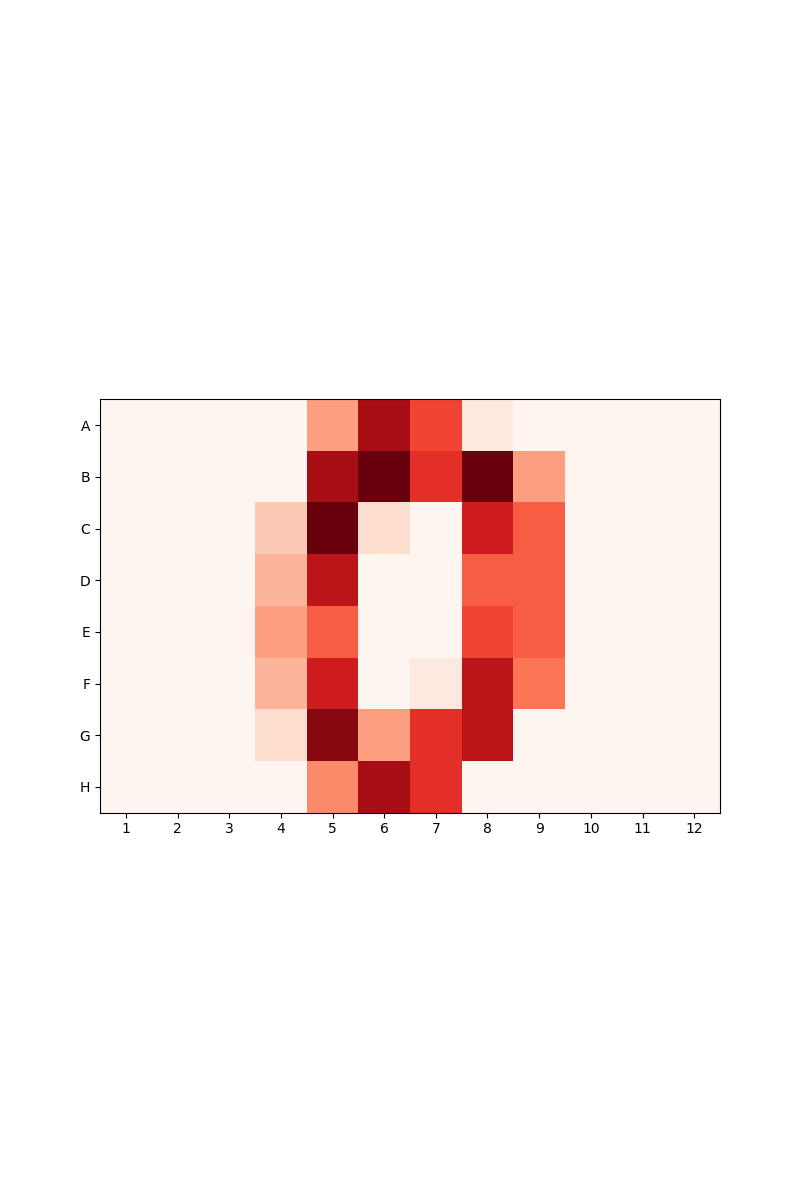
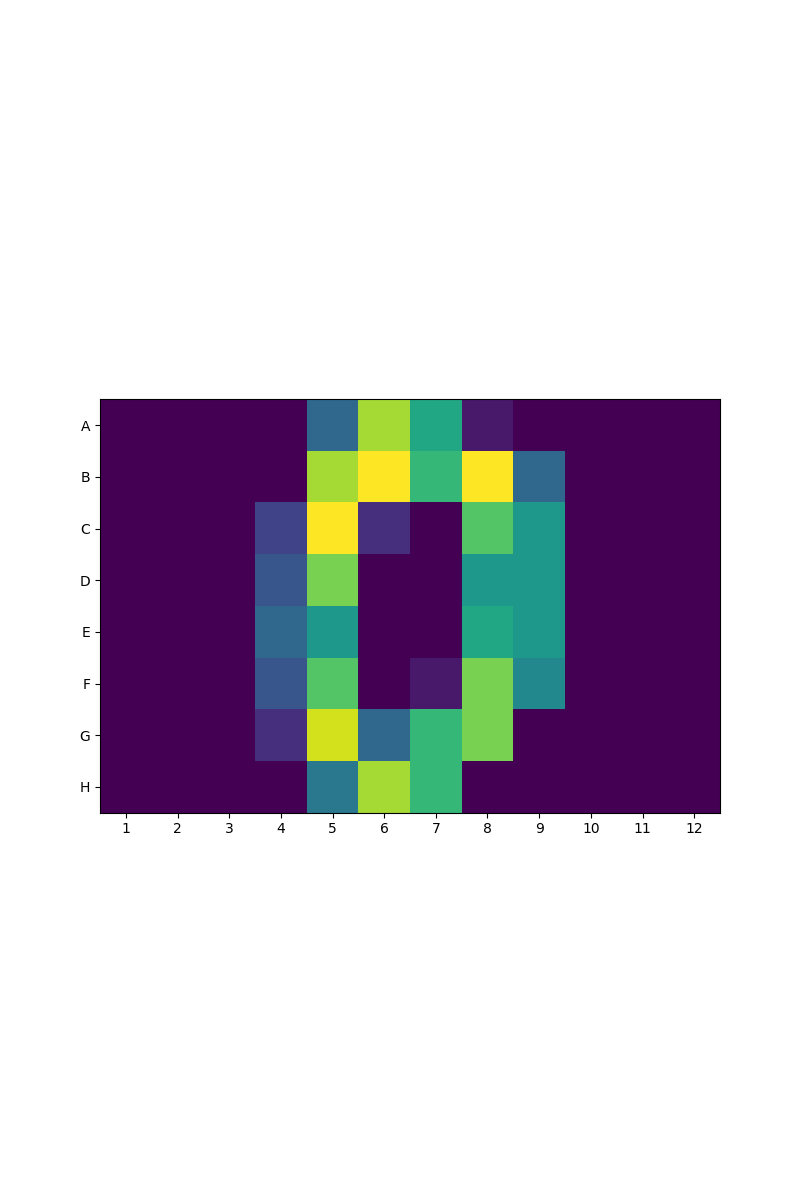
Chagned config according to setup of opentrons

Changed region(s): [[0.125, 0.3083, 0.9062, 0.6783]]

diff --git a/src/protocol.py b/src/protocol.py
@@ -12,6 +12,7 @@ metadata = {
     "apiLevel": "2.11"
 }
 
+COLOR_MAP = "Oranges"
 
 class Canvas:
     def __init__(self, well_rows=8, well_cols=12, depth=4, depth_map={}):
@@ -50,8 +51,8 @@ class Canvas:
         plt.imshow(self._board)
         plt.xticks(list(self._col_map.values()), list(self._col_map.keys()))
         plt.yticks(list(self._row_map.values()), list(self._row_map.keys()))
-        if cmap_name:
-            plt.set_cmap(cmap_name)
+        # if cmap_name:
+        #     plt.set_cmap(cmap_name)
         plt.savefig("test.png")
         plt.close()
 
@@ -62,29 +63,32 @@ def rgb2gray(r, g, b):
 
 def run(protocol: protocol_api.ProtocolContext):
     # labware
-    # tiprack_p20 = protocol.load_labware("opentrons_96_tiprack_20ul", "1")
+    tiprack_p300 = protocol.load_labware("opentrons_96_tiprack_300ul", "1")
+    # tiprack_p20 = protocol.load_labware("opentrons_96_tiprack_20ul", "4")
     palette = protocol.load_labware("usascientific_12_reservoir_22ml", "2")
-    tiprack_p300 = protocol.load_labware("opentrons_96_tiprack_300ul", "4")
-    canvas = protocol.load_labware("nest_96_wellplate_200ul_flat", "5")
+    canvas = protocol.load_labware("nest_96_wellplate_200ul_flat", "3")
     
     # pipettes
-    # left_pipette = protocol.load_instrument(
-    #     "p20_single_gen2", "left", tip_racks=[tiprack_p20]
-    # )
-    right_pipette = protocol.load_instrument(
-        "p300_single_gen2", "right", tip_racks=[tiprack_p300]
+    left_pipette = protocol.load_instrument(
+        "p300_single_gen2", "left", tip_racks=[tiprack_p300]
     )
+    # right_pipette = protocol.load_instrument(
+    #     "p20_single_gen2", "right", tip_racks=[tiprack_p20]
+    # )
 
     digits = load_digits()
     # We only have 4 colors so we divide each pixel by 4 to end up with 4 values
-    depth = 1
-    data = digits.images // depth
+    depth = 3
+    data = digits.images / digits.images.max()
     digit = data[0]
+    cm = plt.get_cmap(COLOR_MAP)
+    colored_digit = cm(digit)
+    colored_digit = colored_digit[:, :, :3]
     sim_canvas = Canvas(depth=depth)
     # depth_map = {i:f"A{i+1}" for i in range(depth)}
 
     # commands
-    for iy, ix in np.ndindex(digit.shape):
+    for iy, ix in np.ndindex(colored_digit.shape):
         depth_val = digit[iy, ix]
         # We shift the x because the letters are quadratic
         ix_shifted = ix + 2
@@ -92,14 +96,14 @@ def run(protocol: protocol_api.ProtocolContext):
             continue
         amount = depth_val * 10.
         # Pick up the tip
-        right_pipette.pick_up_tip()
+        left_pipette.pick_up_tip()
         # Aspirate from palette with index of depth
-        right_pipette.aspirate(amount, palette["A1"])
+        left_pipette.aspirate(amount, palette["A1"])
         # Dispense the amount onto the canvas at given well
         canvas_well = sim_canvas.array_idx_to_well(iy, ix_shifted)
-        right_pipette.dispense(amount, canvas[canvas_well])
+        left_pipette.dispense(amount, canvas[canvas_well])
         # Simulate canvas in Canvas obj
         sim_canvas.set(canvas_well, 1, amount)
-        right_pipette.drop_tip()
+        left_pipette.drop_tip()
 
-    sim_canvas.draw(cmap_name="Reds")
+    sim_canvas.draw(cmap_name="Oranges")

diff --git a/src/gen_col_digits.py b/src/gen_col_digits.py
@@ -1,11 +1,7 @@
-"""From: https://github.com/salesforce/corr_based_prediction/blob/master/gen_color_mnist.py"""
 import matplotlib.pyplot as plt
 import numpy as np
 from PIL import Image
-import scipy
 from sklearn.datasets import load_digits
-import torch
-from xgboost import train
 
 lena = Image.open("resources/lena.png")
 
@@ -44,6 +40,16 @@ def color_digits_batch(x, batch_size=256, change_colors=True):
         # Invert the colors at the location of the number
         image[batch_binary[i]] = 1 - image[batch_binary[i]]
         batch[i] = image
-    return batch
+    return batch, batch_raw
 
-batch = color_digits_batch(x_train, batch_size=3)
+batch_size = 4
+batch, batch_raw = color_digits_batch(x_train, batch_size=batch_size, change_colors=False)
+
+fig, axs = plt.subplots(2, batch_size, figsize=(15,3))
+for i in range(batch_size):
+    axs[0, i].imshow(batch[i])
+    axs[1, i].imshow(batch_raw[i])
+    axs[0, i].axis("off")
+    axs[1, i].axis("off")
+plt.tight_layout()
+plt.show()

diff --git a/src/test_protocol.py b/src/test_protocol.py
@@ -13,9 +13,9 @@ metadata = {
 def run(protocol: protocol_api.ProtocolContext):
 
     # labware
-    tiprack = protocol.load_labware('opentrons_96_tiprack_300ul', '1')
-    palette = protocol.load_labware('usascientific_12_reservoir_22ml', '2')
-    canvas = protocol.load_labware('nest_96_wellplate_200ul_flat', '5')
+    tiprack = protocol.load_labware("opentrons_96_tiprack_300ul", "1")
+    palette = protocol.load_labware("usascientific_12_reservoir_22ml", "2")
+    canvas = protocol.load_labware("nest_96_wellplate_200ul_flat", "3")
 
     # pipettes
     left_pipette = protocol.load_instrument('p300_single_gen2', 'left', tip_racks=[tiprack])
